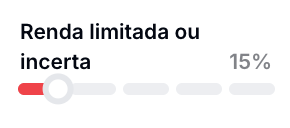
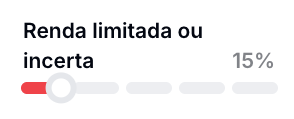
Changes

Changed region(s): [[0.0621, 0.1765, 0.7138, 0.3277], [0.0621, 0.4034, 0.3414, 0.8824], [0.7759, 0.4034, 0.931, 0.5798]]

diff --git a/src/components/editor/page-builder/ElementPreview.tsx b/src/components/editor/page-builder/ElementPreview.tsx
@@ -413,16 +413,35 @@ export default function ElementPreview({ element, stepNumber }: Props) {
       const lblColor = element.horizontalBarLabelColor || 'hsl(var(--foreground))';
       const valColor = element.horizontalBarValueColor || barColor;
       const trackH = element.horizontalBarHeight || 12;
+      const dotSize = trackH + 10;
+      const pct = Math.min(100, Math.max(0, barVal));
       return (
         <div className="space-y-1.5 w-full">
           <div className="flex justify-between items-baseline">
             <span className="text-sm font-semibold" style={{ color: lblColor }}>{element.horizontalBarLabel || 'Progresso'}</span>
             <span className="text-sm font-extrabold" style={{ color: valColor }}>{barVal}%</span>
           </div>
-          <div className="rounded-full overflow-hidden" style={{ backgroundColor: barBg, height: trackH }}>
+          <div className="relative w-full" style={{ height: dotSize }}>
+            {/* Track background */}
             <div
-              className="h-full rounded-full transition-all duration-500"
-              style={{ width: `${Math.min(100, Math.max(0, barVal))}%`, backgroundColor: barColor }}
+              className="absolute rounded-full left-0 right-0"
+              style={{ backgroundColor: barBg, height: trackH, top: (dotSize - trackH) / 2 }}
+            />
+            {/* Filled portion */}
+            <div
+              className="absolute rounded-full transition-all duration-500"
+              style={{ width: `${pct}%`, backgroundColor: barColor, height: trackH, top: (dotSize - trackH) / 2 }}
+            />
+            {/* Dot indicator */}
+            <div
+              className="absolute rounded-full shadow-md border-2 border-white transition-all duration-500"
+              style={{
+                width: dotSize,
+                height: dotSize,
+                backgroundColor: barColor,
+                left: `calc(${pct}% - ${dotSize / 2}px)`,
+                top: 0,
+              }}
             />
           </div>
         </div>

diff --git a/src/pages/FormPreview.tsx b/src/pages/FormPreview.tsx
@@ -1106,16 +1106,32 @@ function InteractiveElement({
       const lblColor = element.horizontalBarLabelColor || 'hsl(var(--foreground))';
       const valColor = element.horizontalBarValueColor || barColor;
       const trackH = element.horizontalBarHeight || 12;
+      const dotSize = trackH + 10;
+      const pct = Math.min(100, Math.max(0, barVal));
       return wrapWithStyle(
         <div className="space-y-1.5 w-full">
           <div className="flex justify-between items-baseline">
             <span className="text-sm font-semibold" style={{ color: lblColor }}>{element.horizontalBarLabel || 'Progresso'}</span>
             <span className="text-sm font-extrabold" style={{ color: valColor }}>{barVal}%</span>
           </div>
-          <div className="rounded-full overflow-hidden" style={{ backgroundColor: barBg, height: trackH }}>
+          <div className="relative w-full" style={{ height: dotSize }}>
             <div
-              className="h-full rounded-full transition-all duration-500"
-              style={{ width: `${Math.min(100, Math.max(0, barVal))}%`, backgroundColor: barColor }}
+              className="absolute rounded-full left-0 right-0"
+              style={{ backgroundColor: barBg, height: trackH, top: (dotSize - trackH) / 2 }}
+            />
+            <div
+              className="absolute rounded-full transition-all duration-500"
+              style={{ width: `${pct}%`, backgroundColor: barColor, height: trackH, top: (dotSize - trackH) / 2 }}
+            />
+            <div
+              className="absolute rounded-full shadow-md border-2 border-white transition-all duration-500"
+              style={{
+                width: dotSize,
+                height: dotSize,
+                backgroundColor: barColor,
+                left: `calc(${pct}% - ${dotSize / 2}px)`,
+                top: 0,
+              }}
             />
           </div>
         </div>
